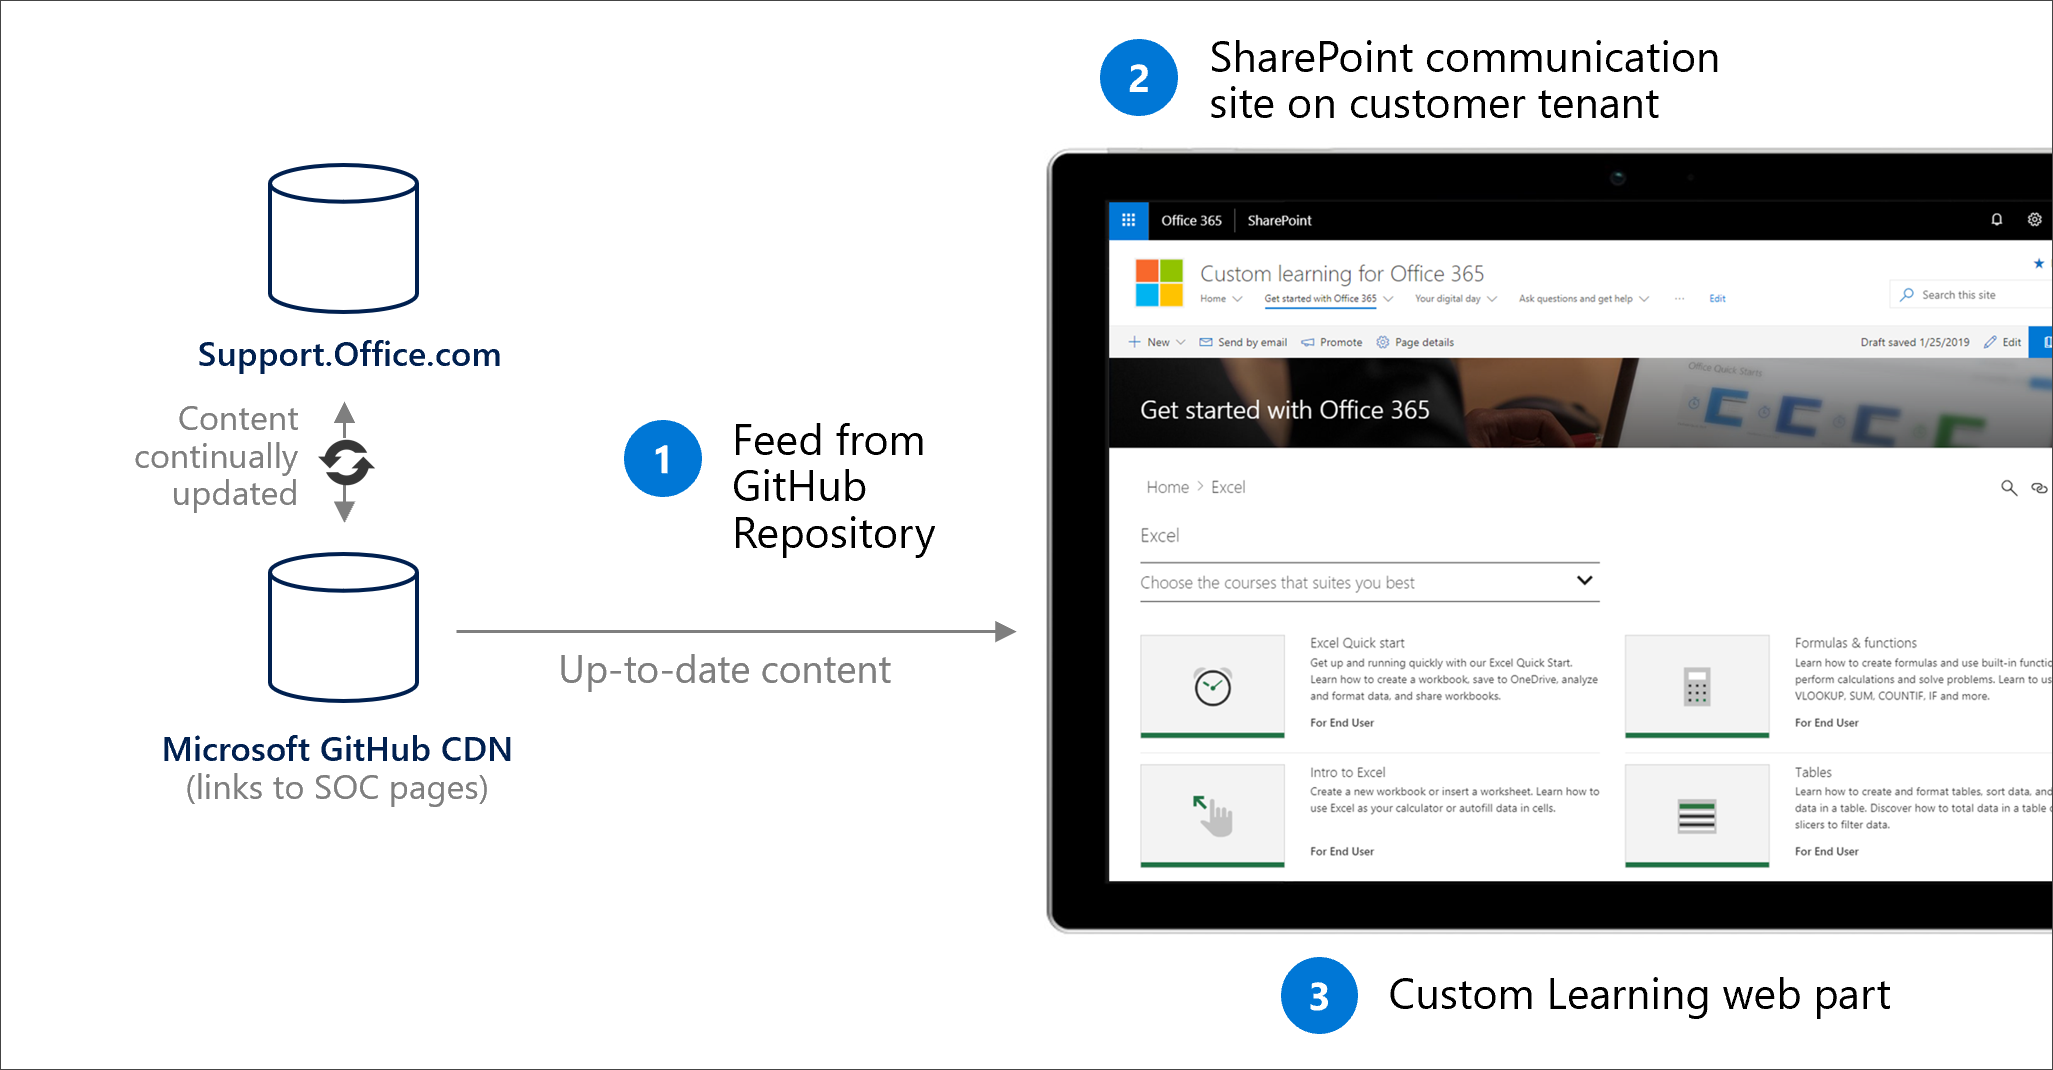
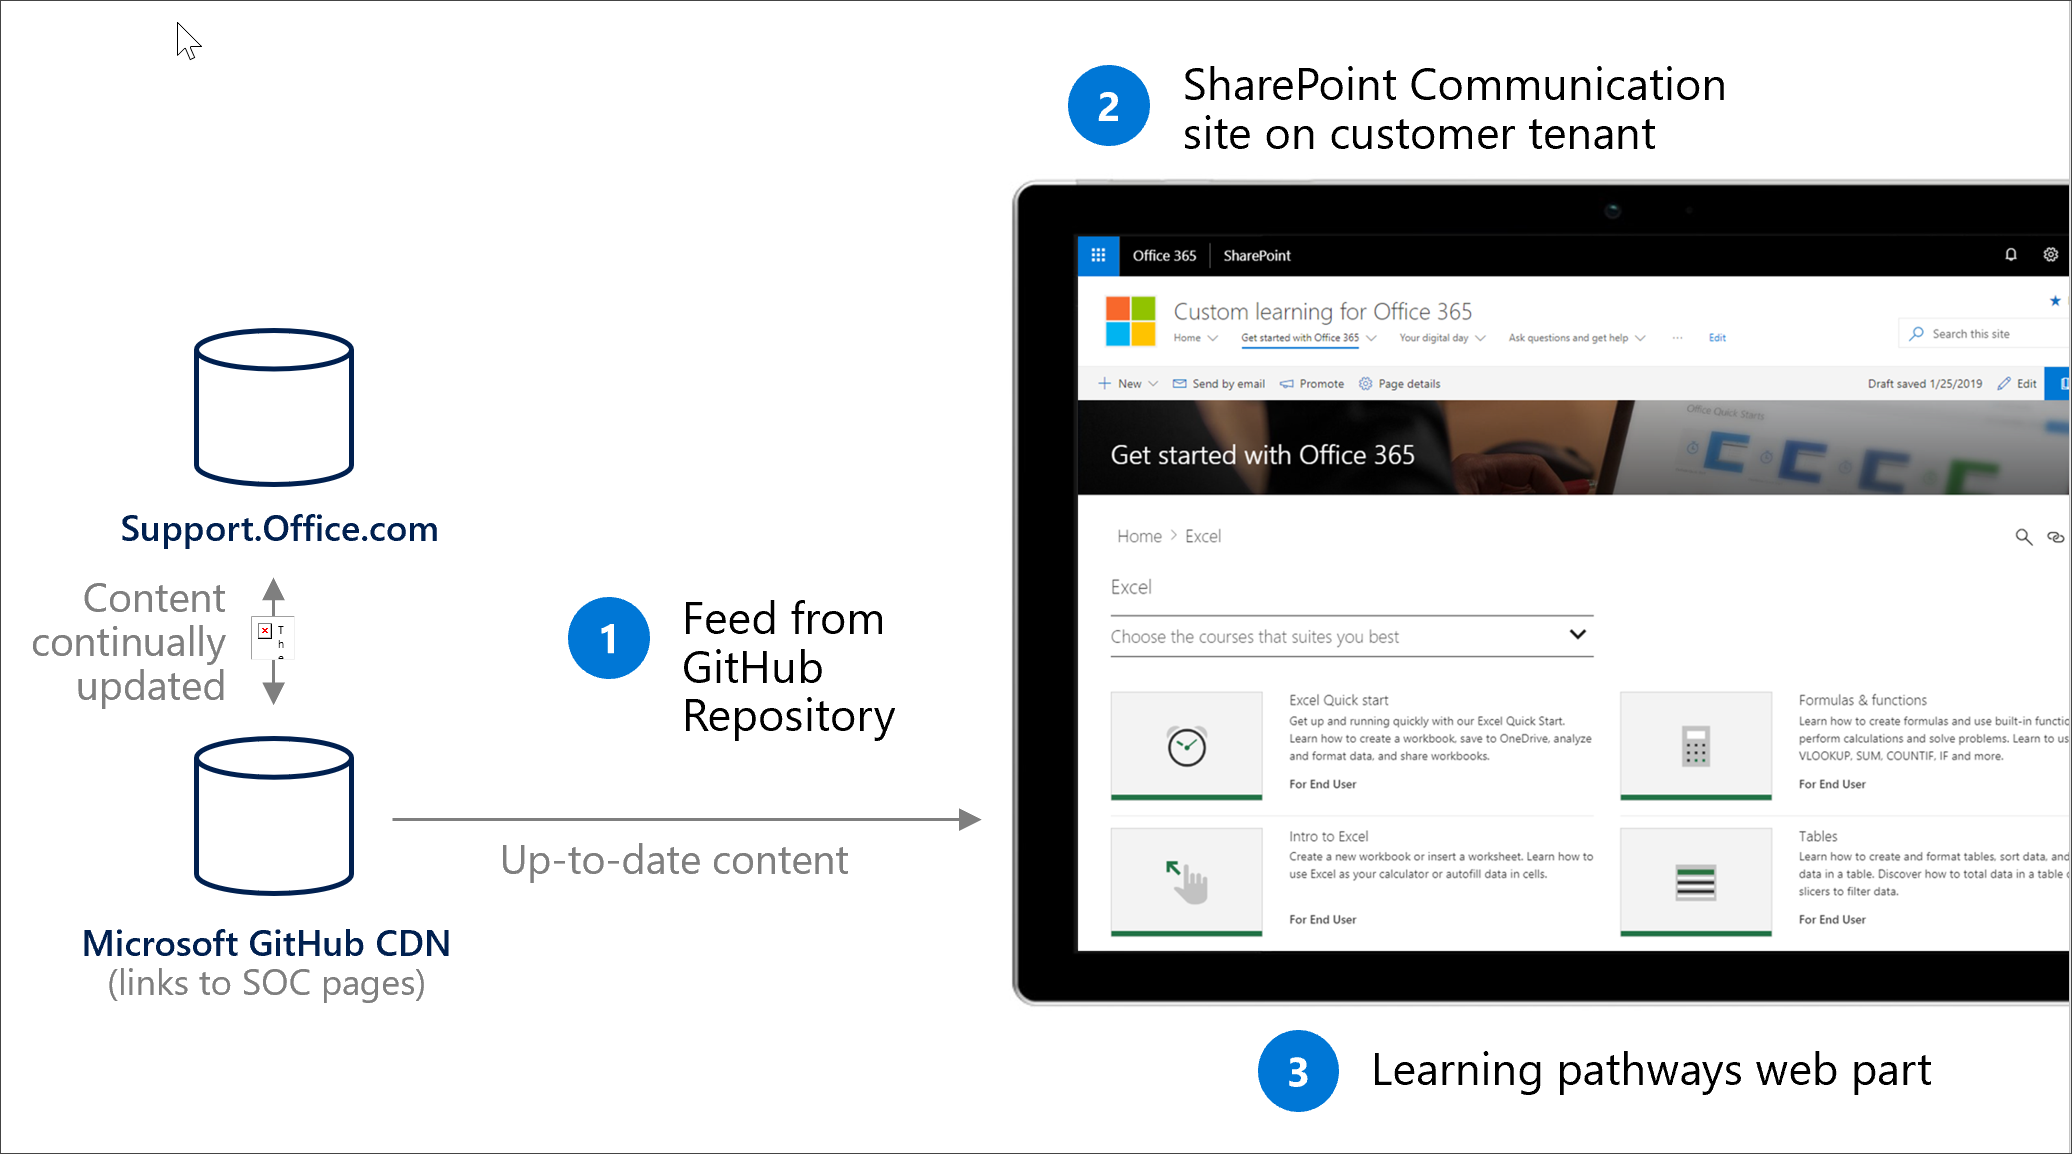
rebrand update

diff --git a/CustomLearning/index.md b/CustomLearning/index.md
@@ -1,48 +1,48 @@
 ---
 author: pkrebs
 ms.author: pkrebs
-title:  Overview of Custom Learning for Office 365 Open Source solution
-ms.date: 02/10/2019
-description: Learn how Custom Learning for Office 365 can accelerate usage and adoption of Office 365 in your organization. Our solutions include a custom SharePoint Online web part and a modern SharePoint Online communications training site that is easily provisioned to your Office 365 tenant. 
+title:  Overview of Microsoft 365 learning pathways 
+ms.date: 05/17/2019
+description: Learn how Microsoft 365 learning pathways can accelerate usage and adoption of Microsoft 365 services in your organization. Learning pathways include a custom SharePoint Online web part and a modern SharePoint Online communications training site that is easily provisioned to your Office 365 tenant. 
 ---
 
-# Custom Learning for Office 365 Beta Preview
-Custom Learning for Office 365 Beta Preview is a customizable, on-demand training solution designed to increase usage and adoption of Office 365 in an organization.  
+# Microsoft 365 learning pathways Beta Preview
+Microsoft 365 learning pathways, formerly known as Custom Learning for Office 365, is a customizable, on-demand training solution designed to increase usage and adoption of Microsoft 365 services in your organization.  
 
 ## On-demand, custom training from Microsoft
 
-Custom Learning for Office 365 offers:
+Microsoft 365 learning pathways offers:
 
-- **A fully customizable SharePoint Online communication site** - Formally known as the Toolkit for Teamwork, the Custom Learning training portal can be customized to add your organization's help, support, and community content
-- **Easy provisioning** - Provision Custom Learning from the SharePoint Online Provisioning Service with just a few easy steps
-- **The ability to create your own training playlists** - with Custom Learning, you can create targeted training playlists to meet the unique needs of your environment
-- **Up-to-date content** - Custom Learning provides content through a Microsoft online content catalog, so the content at your site is regularly updated
+- **A fully customizable SharePoint Online communication site** - The learning pathways training portal can be customized to add your organization's help, support, and community content
+- **Easy provisioning** - Provision learning pathways from the SharePoint Online Provisioning Service with just a few easy steps
+- **The ability to create your own training playlists** - with learning pathways, you can create targeted training playlists to meet the unique needs of your environment
+- **Up-to-date content** - Learning pathways provides content through a Microsoft online content catalog, so the content at your site is regularly updated
 
 ![cg-introducing.png](media/cg-introducing.png)
 
-## Custom Learning Components
-Custom Learning for Office 365 consists of three parts: 
+## Learning pathways components
+Microsoft 365 learning pathways consists of three parts: 
 
 ![cg-howitworks.png](media/cg-howitworks.png)
 
-- **An online catalog of Microsoft content** - Custom Learning is connected to an online catalog of Microsoft training content
-- **A SharePoint Online communication site** - Custom Learning provides an easy-to-provision training portal that can be customized to the needs of your organization.
-- **a SharePoint web part** - Custom Learning provides a SharePoint web part that can be filtered to present targeted training content. Organizations can also use the Web part to create their own custom playlists.
+- **An online catalog of Microsoft content** - Learning pathways is connected to an online catalog of Microsoft training content
+- **A SharePoint Online communication site** - Learning pathways provides an easy-to-provision training portal that can be customized to the needs of your organization.
+- **a SharePoint web part** - Learning pathways provides a SharePoint web part that can be filtered to present targeted training content. Organizations can also use the Web part to create their own custom playlists.
 
 ## SharePoint Online Provisioning Service 
-Custom Learning can be provisioned from the SharePoint Online Provisioning Service. When Custom Learning is provisioned, organizations get a SharePoint Online communication site designed to be an out-of-the box training portal, along with a Custom Learning Web part connected to an online catalog of training content. 
+Learning pathways can be provisioned from the SharePoint Online Provisioning Service. When Custom Learning is provisioned, organizations get a SharePoint Online communication site designed to be an out-of-the box training portal, along with a learning pathways Web part connected to an online catalog of training content. 
 
 ![cg-provision.png](media/cg-provision.png)
 
 ## 3 Easy Steps
-Let's get started creating a custom learning experience for your environment.
-1. Choose a [setup option](custom_setupoptions.md) and provision Custom Learning.  
-2. Tailor Custom Learning for your environment.
-3. Share Custom Learning with your users using our [adoption tools](driveadoption.md).
+Let's get started creating a learning pathways experience for your environment.
+1. Choose a [setup option](custom_setupoptions.md) and provision Microsoft 365 learning pathways.  
+2. Tailor learning pathways for your environment.
+3. Share learning pathways with your users using our [adoption tools](driveadoption.md).
 
 ## Feedback and Support
 
-The Custom Learning for Office 365 is an open source project supported through our [online issues list](https://aka.ms/CustomLearningHelp) on GitHub. The Custom Learning for Office 365 solution and it's components are not covered by any existing Microsoft support contract.  
+Microsoft 365 learning pathways is an open source project supported through our [online issues list](https://aka.ms/CustomLearningHelp) on GitHub. The learnng pathways solution and it's components are not covered by any existing Microsoft support contract.  
 
 ## Additional Resources
-You can use the Custom Learning site experience to provide links to any new or existing user community forums. Consider starting an internal user group, if you don't have one already, to enable people to share their success and learn from each other.  If you don't have time to nurture an internal user group, you and your employees can join the [Microsft Office 365 Champion community](https://aka.ms/O365Champions) for monthly training, membership in the online community, and early access to tools and resources for Office 365.
+You can use the Microsoft 365 learning pathways site to provide links to any new or existing user community forums. Consider starting an internal user group, if you don't have one already, to enable people to share their success and learn from each other.  If you don't have time to nurture an internal user group, you and your employees can join the [Microsft Office 365 Champion community](https://aka.ms/O365Champions) for monthly training, membership in the online community, and early access to tools and resources for Office 365.
